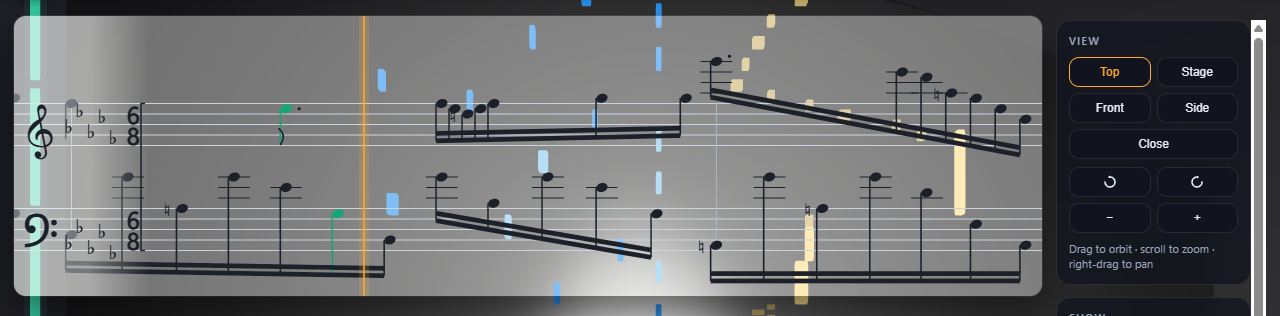
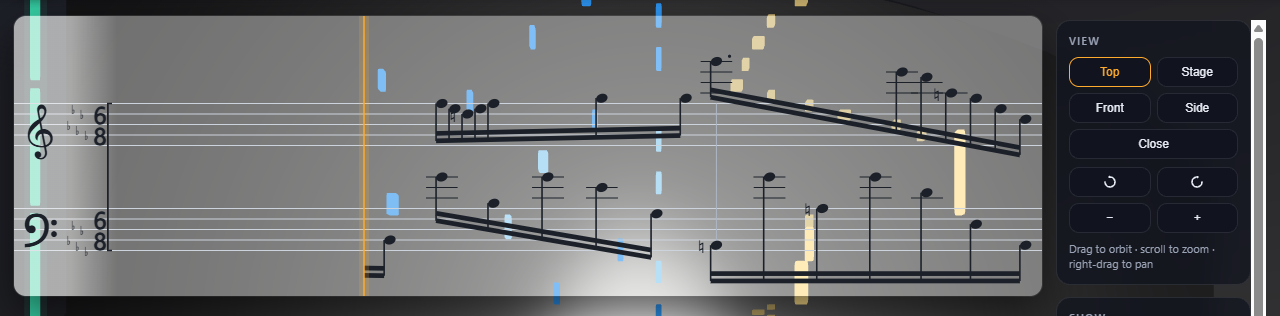
Tighten the key signature, and stop the notes at the marker
Two faults on the paper.

The marks sat 1.05 line gaps apart, which is a whole space between two signs of
a key. A printed signature packs them at about two fifths of a gap, and each
mark is tall and narrow, so five flats read as one column. The view now sets
the pitch to 0.42 gaps and squeezes the glyph across, which keeps a 0.7 px
margin between two marks at a 10.5 px gap.

The note layer scrolled on under the clef, the key signature and the time
signature, so a playing note crossed the amber marker and ran into the signs.
The layer now sits in a group that carries a clip from the marker to the right
edge, so a note leaves the paper at the marker. Measured on the Nocturne at
24 s: dark ink between the gutter and the marker falls from 4,821 px to 0.

diff --git a/src/scoreui.js b/src/scoreui.js
@@ -22,6 +22,11 @@ const CLEF_FONT = '"Bravura", "Segoe UI Symbol", "Noto Music", serif';
 const ACC_FONT = '"Segoe UI Symbol", serif';
 const FLAG_LEN = 1.5; // flag length, in line gaps
 const SIG_FONT = '"Segoe UI Symbol", "Noto Music", serif';
+// A printed key signature packs its marks far tighter than a line gap, and each
+// mark is tall and narrow. The view squeezes the glyph to reach that shape.
+const KEY_GAP = 0.42; // mark pitch, in line gaps
+const KEY_SIZE = 1.25; // mark font size, in line gaps
+const KEY_SQUEEZE = 0.62; // how much the glyph narrows across
 // A sign from the layout reads as its music glyph: a sharp, a flat, a natural.
 const ACC_GLYPH = { '#': '\u266F', b: '\u266D', n: '\u266E' };
 const signGlyph = (sign) => ACC_GLYPH[sign] || sign;
@@ -165,6 +170,7 @@ export class ScoreView {
     this.buckets.clear();
     this.svg.replaceChildren();
     this.world = null;
+    this.clip = null;
     this.gutter = null;
     this.needle = null;
     this.staves = null;
@@ -214,11 +220,23 @@ export class ScoreView {
       SVG('stop', { offset: '1', 'stop-color': '#fcfcfa', 'stop-opacity': 0 }),
     );
     defs.appendChild(fade);
+    // A note stops at the marker. The clip starts on the playhead, so no note
+    // scrolls under the clef, the key signature or the time signature.
+    const marker = Math.round(layout.playheadRatio * layout.width);
+    const clip = SVG('clipPath', { id: 'sc-clip' });
+    clip.appendChild(SVG('rect', {
+      x: marker, y: 0, width: Math.max(0, width - marker), height,
+    }));
+    defs.appendChild(clip);
     this.svg.appendChild(defs);
 
     this._drawStaves();
     this.world = SVG('g', { class: 'sc-world' });
-    this.svg.append(this.world);
+    // The clip belongs to a group with no transform of its own, so the clip
+    // rectangle stays on the paper while the note layer moves under it.
+    this.clip = SVG('g', { class: 'sc-window', 'clip-path': 'url(#sc-clip)' });
+    this.clip.appendChild(this.world);
+    this.svg.appendChild(this.clip);
     this._drawGutter();
     this._drawNeedle();
 
@@ -233,7 +251,9 @@ export class ScoreView {
     // Room for a clef, the key signature and a time signature, so none of them
     // covers a scrolling note. The widest signature of the piece sets the room.
     const signs = Math.max(0, ...layout.keys.map((key) => Math.abs(key.accidentals)));
-    this.keyGap = gap * 1.05;
+    // A printed signature packs its marks at about two fifths of a line gap, so
+    // the group reads as one narrow column.
+    this.keyGap = gap * KEY_GAP;
     this.clefX = gap * 2.5;
     this.keyX = gap * 5.2;
     this.sigX = this.keyX + signs * this.keyGap + gap * 0.9;
@@ -314,17 +334,20 @@ export class ScoreView {
     const key = time === null ? keys[0] : keyAt(keys, time);
     if (!key || this.keyKey === key.accidentals) return;
     this.keyKey = key.accidentals;
-    // A mark reads a little larger than an accidental beside a notehead, as the
-    // engraver sets it.
-    const size = this.layout.gap * 1.9;
+    // A mark keeps the height of a note accidental and narrows across, so five
+    // of them fit in fewer than two line gaps.
+    const size = this.layout.gap * KEY_SIZE;
     for (const { staff, group } of this.keyNodes) {
       group.replaceChildren(...keyMarkSteps(key.accidentals, staff).map((mark, index) => {
         const sign = signGlyph(mark.sign);
+        const x = this.keyX + index * this.keyGap;
         const node = SVG('text', {
           class: 'sc-key-mark',
-          x: this.keyX + index * this.keyGap,
+          x: 0,
           'text-anchor': 'middle',
           'font-size': size,
+          // The squeeze sits on the glyph, so its centre stays on `x`.
+          transform: `translate(${x} 0) scale(${KEY_SQUEEZE} 1)`,
           y: centredBaseline(sign, size, ACC_FONT, this._yOf(mark.step, staff), this.svg),
         });
         node.textContent = sign;

diff --git a/README.md b/README.md
@@ -44,6 +44,8 @@ The key signature sits between the clef and the time signature, and it follows a
 
 The key-signature event of the MIDI file sets the marks. Six of the 18 built-in pieces carry no such event. For those pieces the band prints the signature that covers most of the sounding notes, and it charges one mark for each added sign. A piece in C major therefore keeps an empty signature.
 
+The notes stop at the amber marker. No note scrolls under the clef, the key signature or the time signature, so the marks keep a clear column at the edge of the paper.
+
 Every mark takes its place from the staff. A notehead sits on its line or space. A stem starts on the head it belongs to and ends on a fixed length, or on the beam. A beam runs from the first stem to the last, and the stems of the group take one direction from the average pitch. A whole rest hangs from the fourth line and a half rest sits on the middle line. The digits of the time signature fill the two spaces beside the middle line, and a clef centres on the middle line of its own staff.
 
 Bar lines come from the time signature and the tempo map of the file, so the bars follow a tempo change. The line spacing shrinks when the register is wide, so no note leaves the paper. The scroll speed follows the note density, so a fast passage keeps its notes apart. The band takes about a third of the window, and the stage sits below it.
